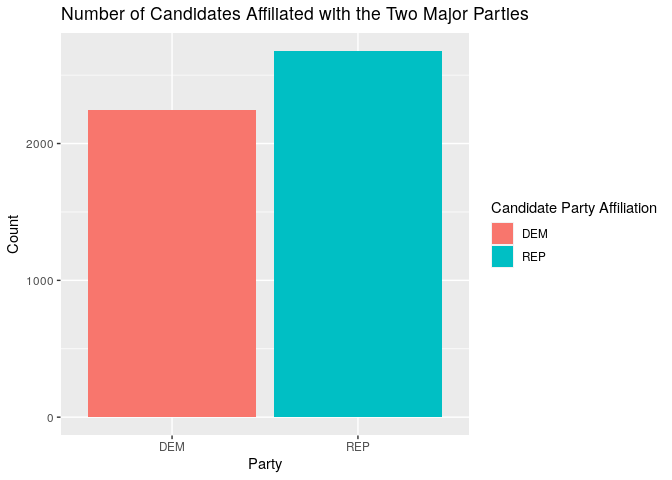
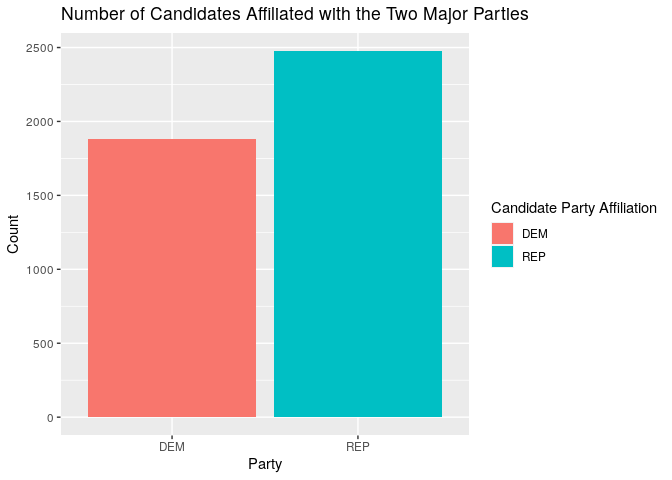
updated README

diff --git a/README.md b/README.md
@@ -1,2 +1,129 @@
-# fec12
-FEC data from 2012
+
+<!-- README.md is generated from README.Rmd. Please edit that file -->
+
+# fec16 <img src="data-raw/Sticker/hex_fec16.png" align="right" height=140/>
+
+<!-- badges: start -->
+
+[![Lifecycle:
+experimental](https://img.shields.io/badge/lifecycle-maturing-blue.svg)](https://www.tidyverse.org/lifecycle/#maturing)
+[![CRAN
+status](https://r-pkg.org/badges/version/fec12)](https://CRAN.R-project.org/package=fec16)
+[![Travis-CI Build
+Status](https://travis-ci.org/baumer-lab/fec12.svg?branch=master)](https://travis-ci.org/baumer-lab/fec16)
+<!-- badges: end -->
+
+**fec12** contains data from the [Federal Election Commission
+(FEC)](https://www.fec.gov/) website pertaining to candidates,
+committees, results, contributions from committees and individuals, and
+other financial [data for the United States 2011-2012 election
+cycle](https://www.fec.gov/data/browse-data/?tab=bulk-data).
+Additionally, for the datasets that are included as samples, the package
+includes functions that import the full versions.
+
+## Installation
+
+`fec12` is hosted on GitHub and call be installed by running the
+following:
+
+``` r
+devtools::install_github("baumer-lab/fec12")
+```
+
+``` r
+library(fec12)
+```
+
+## Datasets Included
+
+### Full Datasets
+
+  - `candidates`: candidates registered with the FEC during the
+    2011-2012 election cycle
+  - `committees`: committees registered with the FEC during the
+    2011-2012 election cycle
+  - `campaigns`: the house/senate current campaigns
+  - `results_house`: the house results of the 2012 general presidential
+    election
+  - `results_senate`: the senate results of the 2012 general
+    presidential election
+  - `results_president`: the final results of the 2012 general
+    presidential election
+  - `pac`: Political Action Committee (PAC) and party summary financial
+    information
+
+### Sample Datasets (with 1000 rows each)
+
+  - `individuals`: individual contributions to candidates/committees
+    during the 2012 general presidential election
+  - `contributions`: candidates and their contributions from committees
+    during the 2012 general election
+  - `expenditures`: the operating expenditures
+  - `transactions`: transactions between committees
+
+## Functions Included
+
+The following functions retrieve the entire datasets for the sampled
+ones listed above. The size of the raw file that is downloaded by
+calling each function is given for reference. All functions have an
+argument `n_max` which defaults to the entire dataset but the user can
+specify the max length of the dataset to be loaded via this argument.
+
+  - `read_all_individuals()` \~ 1.45GB
+  - `read_all_contributions()` \~ 15.4MB
+  - `read_all_expenditures()` \~ 52.1MB
+  - `read_all_transactions()` \~ 79.2MB
+
+**Note:** When these functions are run in the console, it is helpful to
+know the progress of the download taking place but running these
+functions in a R Markdown document leads to the progress bar of the
+download being printed repeatedly. A possible solution is to wrap the
+function in `invisible(utils::capture.output())` hereby suppressing the
+messages.
+
+## Examples
+
+### Data Wrangling
+
+`fec16` can be used to summarize data in order see how many candidates
+are running for elections (in all offices) for the two major parties:
+
+``` r
+library(dplyr)
+
+data <- candidates %>%
+  filter(cand_pty_affiliation %in% c("REP", "DEM")) %>%
+  group_by(cand_pty_affiliation) %>%
+  summarize(size = n())
+
+data
+#> # A tibble: 2 x 2
+#>   cand_pty_affiliation  size
+#>   <chr>                <int>
+#> 1 DEM                   1879
+#> 2 REP                   2477
+```
+
+### Data Visualization
+
+We can visualize the above data:
+
+``` r
+library(ggplot2)
+
+ggplot(data, aes(x = cand_pty_affiliation, y = size, fill = cand_pty_affiliation)) +
+  geom_col() +
+  labs(
+    title = "Number of Candidates Affiliated with the Two Major Parties",
+    x = "Party", y = "Count", fill = "Candidate Party Affiliation"
+  )
+```
+
+<img src="man/figures/README-party-plot-1.png" width="100%" />
+
+## Contributors
+
+  - [Marium Tapal](https://github.com/mariumtapal)
+  - [Irene Ryan](https://github.com/ireneryan)
+  - [Rana Gahwagy](https://github.com/ranawg)
+  - [Benjamin S. Baumer](https://github.com/beanumber)
